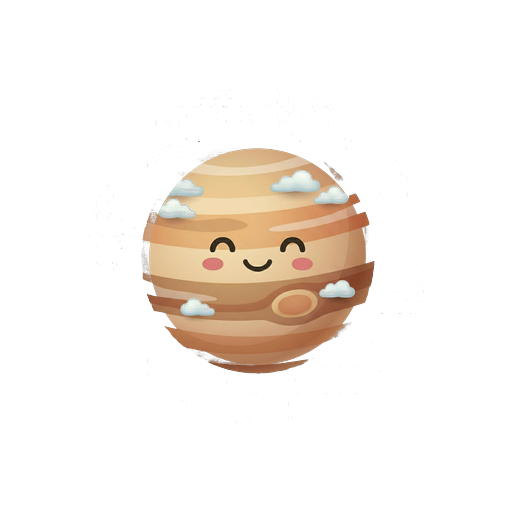
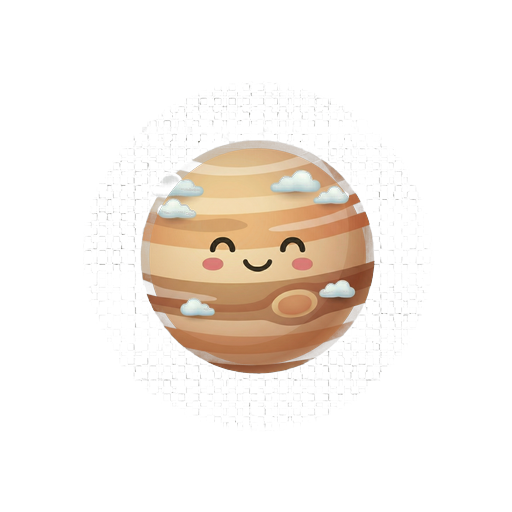
fix(assets): restore saturn/uranus rings; lower bake cleanImage threshold
Saturn and uranus source icons are restored to the pre-circular-mask
version (4077aa6) where the rings are intact on a clean transparent
background. The circular mask applied in a later PR cut off the ring
tips before baking, making them invisible.

The cleanImage threshold in bake_sprites.py is lowered from 200 → 10
so only truly invisible pixels are zeroed, preserving semi-transparent
ring edges and soft glows. All baked PNGs are regenerated.

diff --git a/frontend/scripts/asset-preview.html b/frontend/scripts/asset-preview.html
@@ -523,9 +523,10 @@
             </div>
             <canvas id="simulate-canvas" width="320" height="520"></canvas>
             <div class="sim-hint">
-              Physics uses Matter.js with game constants (restitution 0.1, friction 0.3).
-              Hulls are approximated as circles for the simulation.<br />
-              <strong style="color:#94a3b8">Drag any body</strong> to reposition it — physics resumes on release.
+              Physics uses Matter.js with game constants (restitution 0.1, friction 0.3). Hulls are
+              approximated as circles for the simulation.<br />
+              <strong style="color: #94a3b8">Drag any body</strong> to reposition it — physics
+              resumes on release.
             </div>
           </div>
         </div>

diff --git a/frontend/scripts/bake_sprites.py b/frontend/scripts/bake_sprites.py
@@ -62,14 +62,20 @@ THEMES = [
 # ---------------------------------------------------------------------------
 
 def clean_image(img: Image.Image) -> Image.Image:
-    """Zero RGBA for pixels with alpha < 200 — mirrors runtime cleanImage()."""
+    """Zero RGBA for pixels with alpha < 10 (truly invisible noise only).
+
+    The original runtime used a threshold of 200 to scrub JPEG compression
+    halos, but that also strips semi-transparent ring/halo pixels on clean
+    PNG assets (Saturn, Uranus).  A threshold of 10 removes only imperceptibly
+    invisible pixels while preserving fine transparency on rings and glows.
+    """
     img = img.convert("RGBA")
     pixels = img.load()
     w, h = img.size
     for y in range(h):
         for x in range(w):
             r, g, b, a = pixels[x, y]
-            if a < 200:
+            if a < 10:
                 pixels[x, y] = (0, 0, 0, 0)
     return img
 
